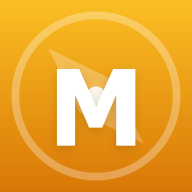
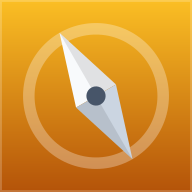
変更

diff --git a/src/components/SearchInterface.jsx b/src/components/SearchInterface.jsx
@@ -20,18 +20,18 @@ const SearchInterface = ({ onSearch }) => {
 
     return (
         <div
-            className="glass-panel p-5 md:p-8 max-w-md w-full mx-auto relative z-10"
+            className="glass-panel p-4 md:p-8 max-w-md w-full mx-auto relative z-10"
         >
-            <div className="text-center mb-4 md:mb-8">
-                <h1 className="text-2xl md:text-3xl font-serif font-bold text-slate-800 mb-1 md:mb-2">Meguru</h1>
-                <p className="text-slate-500 text-xs md:text-sm">あなたのための、特別なよりみち。</p>
+            <div className="text-center mb-3 md:mb-8">
+                <h1 className="text-xl md:text-3xl font-serif font-bold text-slate-800 mb-0.5 md:mb-2">Meguru</h1>
+                <p className="text-slate-500 text-[10px] md:text-sm">あなたのための、特別なよりみち。</p>
             </div>
 
-            <form onSubmit={handleSubmit} className="space-y-4 md:space-y-6">
+            <form onSubmit={handleSubmit} className="space-y-3 md:space-y-6">
                 {/* Location Input */}
-                <div className="space-y-1.5 md:space-y-2">
+                <div className="space-y-1 md:space-y-2">
                     <label className="text-[10px] md:text-xs font-bold text-slate-400 uppercase tracking-wider flex items-center gap-1">
-                        <MapPin size={12} className="md:w-3.5 md:h-3.5" /> 出発地点 (駅・バス停)
+                        <MapPin size={10} className="md:w-3.5 md:h-3.5" /> 出発地点
                     </label>
                     <div className="relative">
                         <input
@@ -39,64 +39,64 @@ const SearchInterface = ({ onSearch }) => {
                             value={query}
                             onChange={(e) => setQuery(e.target.value)}
                             placeholder="例: 京都駅、浅草寺..."
-                            className="w-full bg-slate-100/50 border border-slate-200 rounded-xl px-4 py-2.5 md:py-3 pl-10 focus:outline-none focus:ring-2 focus:ring-slate-900 transition-all font-medium text-slate-700 placeholder-slate-400 text-sm md:text-base"
+                            className="w-full bg-slate-100/50 border border-slate-200 rounded-lg px-3 py-2 md:py-3 pl-9 focus:outline-none focus:ring-2 focus:ring-slate-900 transition-all font-medium text-slate-700 placeholder-slate-400 text-xs md:text-base"
                         />
-                        <Search className="absolute left-3 top-1/2 -translate-y-1/2 text-slate-400" size={16} />
+                        <Search className="absolute left-2.5 top-1/2 -translate-y-1/2 text-slate-400" size={14} />
                     </div>
                 </div>
 
-                {/* Radius Slider */}
-                <div className="space-y-1.5 md:space-y-2">
-                    <label className="text-[10px] md:text-xs font-bold text-slate-400 uppercase tracking-wider flex items-center gap-1">
-                        <Compass size={12} className="md:w-3.5 md:h-3.5" /> 探索範囲: {radius} km
-                    </label>
-                    <input
-                        type="range"
-                        min="0.5"
-                        max="7"
-                        step="0.5"
-                        value={radius}
-                        onChange={(e) => setRadius(parseFloat(e.target.value))}
-                        className="w-full accent-slate-900 h-2 bg-slate-200 rounded-lg appearance-none cursor-pointer"
-                    />
-                    <div className="flex justify-between text-[10px] text-slate-400 font-medium">
-                        <span>徒歩圏内 (0.5km)</span>
-                        <span>広範囲 (7km)</span>
-                    </div>
-                </div>
-
-                {/* Duration Input */}
-                <div className="space-y-1.5 md:space-y-2">
-                    <label className="text-[10px] md:text-xs font-bold text-slate-400 uppercase tracking-wider flex items-center gap-1">
-                        <Clock size={12} className="md:w-3.5 md:h-3.5" /> 所要時間 (分)
-                    </label>
-                    <div className="relative">
+                <div className="grid grid-cols-2 gap-3 md:block md:space-y-6">
+                    {/* Radius Slider */}
+                    <div className="space-y-1 md:space-y-2">
+                        <label className="text-[10px] md:text-xs font-bold text-slate-400 uppercase tracking-wider flex items-center gap-1">
+                            <Compass size={10} className="md:w-3.5 md:h-3.5" /> 範囲: {radius}km
+                        </label>
                         <input
-                            type="number"
-                            min="30"
-                            max="720"
-                            step="30"
-                            value={duration}
-                            onChange={(e) => setDuration(parseInt(e.target.value))}
-                            className="w-full bg-slate-100/50 border border-slate-200 rounded-xl px-4 py-2.5 md:py-3 focus:outline-none focus:ring-2 focus:ring-slate-900 transition-all font-medium text-slate-700 placeholder-slate-400 text-sm md:text-base"
+                            type="range"
+                            min="0.5"
+                            max="7"
+                            step="0.5"
+                            value={radius}
+                            onChange={(e) => setRadius(parseFloat(e.target.value))}
+                            className="w-full accent-slate-900 h-1.5 md:h-2 bg-slate-200 rounded-lg appearance-none cursor-pointer"
                         />
-                        <span className="absolute right-4 top-1/2 -translate-y-1/2 text-xs md:text-sm text-slate-400 font-medium">分</span>
+                        <div className="flex justify-between text-[8px] md:text-[10px] text-slate-400 font-medium">
+                            <span>0.5</span>
+                            <span>7.0</span>
+                        </div>
                     </div>
-                    <p className="text-[10px] text-slate-400 text-right">30分〜720分 (12時間) で指定</p>
+
+                    {/* Duration Input */}
+                    <div className="space-y-1 md:space-y-2">
+                        <label className="text-[10px] md:text-xs font-bold text-slate-400 uppercase tracking-wider flex items-center gap-1">
+                            <Clock size={10} className="md:w-3.5 md:h-3.5" /> 時間 (分)
+                        </label>
+                        <div className="relative">
+                            <input
+                                type="number"
+                                min="30"
+                                max="720"
+                                step="30"
+                                value={duration}
+                                onChange={(e) => setDuration(parseInt(e.target.value))}
+                                className="w-full bg-slate-100/50 border border-slate-200 rounded-lg px-3 py-2 md:py-3 focus:outline-none focus:ring-2 focus:ring-slate-900 transition-all font-medium text-slate-700 placeholder-slate-400 text-xs md:text-base"
+                            />
+                        </div>
+                    </div>
                 </div>
 
                 {/* Submit Button */}
                 <button
                     type="submit"
                     disabled={isSearching}
-                    className="w-full btn-primary flex items-center justify-center gap-2 mt-2 md:mt-4 py-2.5 md:py-3 text-sm md:text-base"
+                    className="w-full btn-primary flex items-center justify-center gap-2 mt-2 md:mt-4 py-2.5 md:py-3 text-xs md:text-base"
                 >
                     {isSearching ? (
-                        <span className="animate-pulse">コースを作成中...</span>
+                        <span className="animate-pulse">作成中...</span>
                     ) : (
                         <>
                             <span>旅を始める</span>
-                            <Navigation size={16} className="md:w-[18px] md:h-[18px]" />
+                            <Navigation size={14} className="md:w-[18px] md:h-[18px]" />
                         </>
                     )}
                 </button>

diff --git a/generate-icons.js b/generate-icons.js
@@ -6,82 +6,100 @@ function createIcon(size, text) {
     const canvas = createCanvas(size, size);
     const ctx = canvas.getContext('2d');
 
-    // Gradient Background (Amber to Deep Orange)
-    const gradient = ctx.createLinearGradient(0, 0, size, size);
-    gradient.addColorStop(0, '#fbfbfb'); // White-ish top
-    gradient.addColorStop(1, '#f3f4f6'); // Light gray bottom
+    // Gradient Background (Deep Amber/Orange)
+    const gradient = ctx.createLinearGradient(0, 0, 0, size);
+    gradient.addColorStop(0, '#fbbf24'); // Amber-400
+    gradient.addColorStop(1, '#b45309'); // Amber-700
 
-    // Wait, user wants "Meguru" style. Let's stick to the brand color: Amber/Orange
-    // But maybe a bit more modern.
-    // Let's do a deep gradient.
-    const brandGradient = ctx.createLinearGradient(0, 0, 0, size);
-    brandGradient.addColorStop(0, '#fbbf24'); // Amber-400
-    brandGradient.addColorStop(1, '#d97706'); // Amber-600
-
-    ctx.fillStyle = brandGradient;
+    ctx.fillStyle = gradient;
     ctx.fillRect(0, 0, size, size);
 
-    // Add a subtle inner white border/ring
+    // --- Compass Symbol Design (No Text) ---
+    const cx = size / 2;
+    const cy = size / 2;
+    const r = size * 0.35; // Ring radius
+
+    // Outer Ring (White, translucent)
     ctx.strokeStyle = 'rgba(255, 255, 255, 0.3)';
-    ctx.lineWidth = size * 0.04;
+    ctx.lineWidth = size * 0.06;
     ctx.beginPath();
-    ctx.arc(size / 2, size / 2, size * 0.42, 0, Math.PI * 2);
+    ctx.arc(cx, cy, r, 0, Math.PI * 2);
     ctx.stroke();
 
-    // Add a "compass needle" abstraction
+    // Needle Drawing
     ctx.save();
-    ctx.translate(size / 2, size / 2);
-    ctx.rotate(-Math.PI / 4); // 45 deg tilt
+    ctx.translate(cx, cy);
+    ctx.rotate(-Math.PI / 6); // 30 deg tilt
 
-    // Draw simplified needle
-    ctx.fillStyle = 'rgba(255, 255, 255, 0.25)';
+    const nLen = size * 0.38; // Needle length
+    const nWid = size * 0.12; // Needle half-width at center
+
+    // North (White/Light Silver) points UP relative to rotation
     ctx.beginPath();
-    ctx.moveTo(0, -size * 0.35); // Tip
-    ctx.lineTo(size * 0.12, 0);  // Right
-    ctx.lineTo(0, size * 0.35);  // Bottom
-    ctx.lineTo(-size * 0.12, 0); // Left
+    ctx.moveTo(0, -nLen);
+    ctx.lineTo(nWid, 0);
+    ctx.lineTo(0, 0);
+    ctx.lineTo(-nWid, 0);
+    ctx.closePath();
+    ctx.fillStyle = '#f8fafc';
     ctx.fill();
 
-    // Add a center point
-    ctx.fillStyle = 'rgba(255, 255, 255, 0.9)';
+    // South (Darker Silver/Grey) points DOWN
+    ctx.beginPath();
+    ctx.moveTo(0, nLen);
+    ctx.lineTo(nWid, 0);
+    ctx.lineTo(0, 0);
+    ctx.lineTo(-nWid, 0);
+    ctx.closePath();
+    ctx.fillStyle = '#cbd5e1';
+    ctx.fill();
+
+    // Add 3D effect (shading on one side)
+    ctx.fillStyle = 'rgba(0,0,0,0.1)';
+    ctx.beginPath();
+    ctx.moveTo(0, -nLen);
+    ctx.lineTo(nWid, 0);
+    ctx.lineTo(0, 0);
+    ctx.closePath();
+    ctx.fill();
+
+    ctx.beginPath();
+    ctx.moveTo(0, nLen);
+    ctx.lineTo(-nWid, 0);
+    ctx.lineTo(0, 0);
+    ctx.closePath();
+    ctx.fill();
+
+    // Central Pivot
     ctx.beginPath();
     ctx.arc(0, 0, size * 0.05, 0, Math.PI * 2);
+    ctx.fillStyle = '#475569'; // Slate-600
     ctx.fill();
 
     ctx.restore();
 
-    // Text "M"
-    ctx.fillStyle = 'white';
-    const fontSize = size * 0.55;
-    ctx.font = `bold ${fontSize}px sans-serif`;
-    ctx.textAlign = 'center';
-    ctx.textBaseline = 'middle';
-
-    // Drop Shadow
-    ctx.shadowColor = 'rgba(0,0,0,0.15)';
-    ctx.shadowBlur = size * 0.05;
-    ctx.shadowOffsetY = size * 0.02;
-
-    // Adjust Y slightly to optically center "M"
-    ctx.fillText(text, size / 2, size / 2 + (size * 0.04));
+    // Add subtle border glow/inner shadow to background
+    ctx.strokeStyle = 'rgba(255,255,255,0.2)';
+    ctx.lineWidth = size * 0.02;
+    ctx.strokeRect(0, 0, size, size);
 
     return canvas.toBuffer('image/png');
 }
 
 // Generate 192x192
-const icon192 = createIcon(192, 'M');
+const icon192 = createIcon(192, '');
 fs.writeFileSync('public/pwa-192x192.png', icon192);
 
 // Generate 512x512
-const icon512 = createIcon(512, 'M');
+const icon512 = createIcon(512, '');
 fs.writeFileSync('public/pwa-512x512.png', icon512);
 
 // Generate Apple Touch Icon
-const appleIcon = createIcon(180, 'M');
+const appleIcon = createIcon(180, '');
 fs.writeFileSync('public/apple-touch-icon.png', appleIcon);
 
 // Generate Favicon (64x64)
-const favicon = createIcon(64, 'M');
+const favicon = createIcon(64, '');
 fs.writeFileSync('public/favicon.ico', favicon);
 
-console.log('Icons (Stylish Gradients) generated successfully.');
+console.log('Icons (Symbol Compass) generated successfully.');
